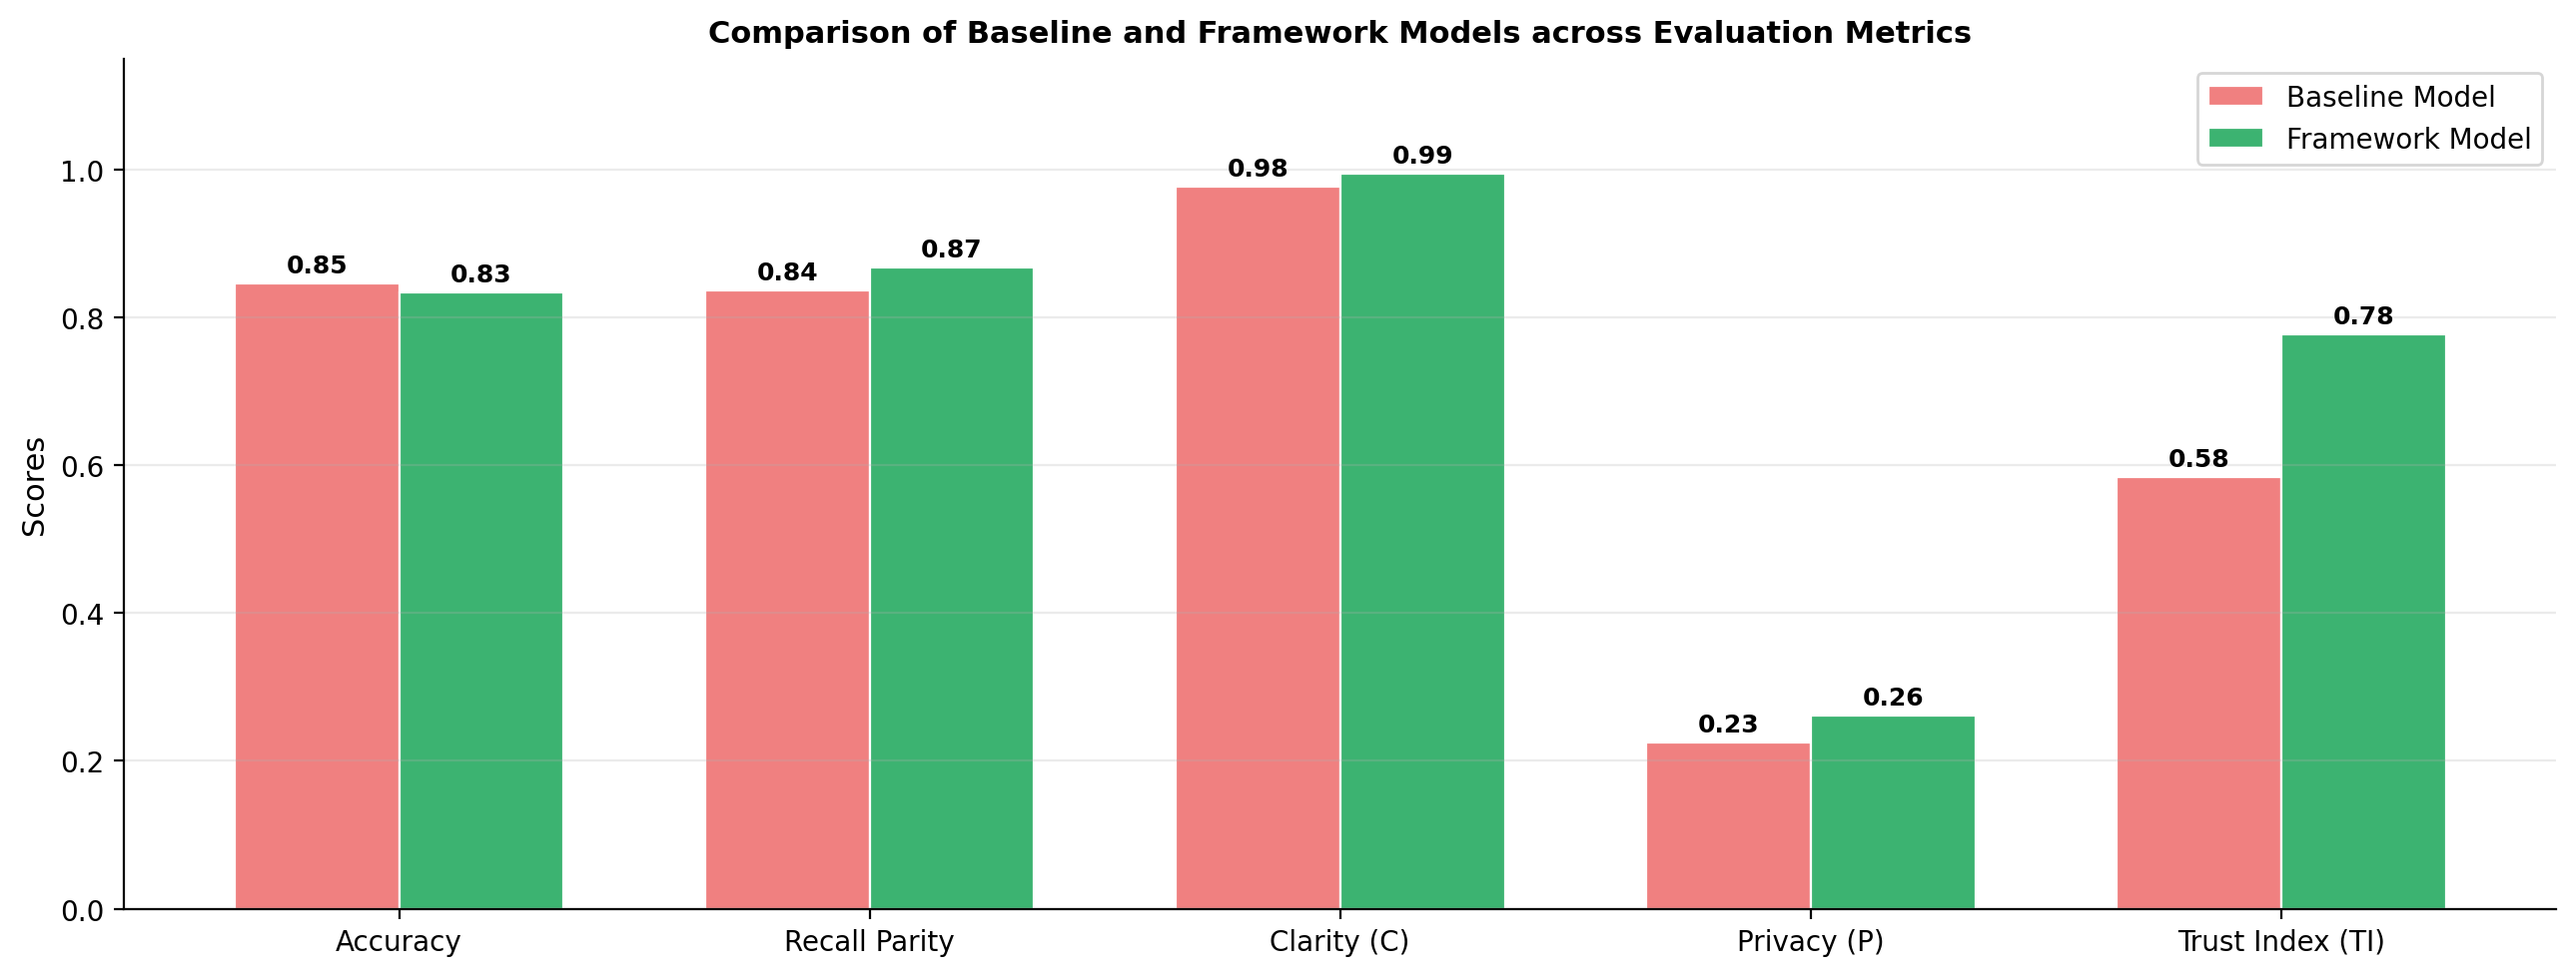
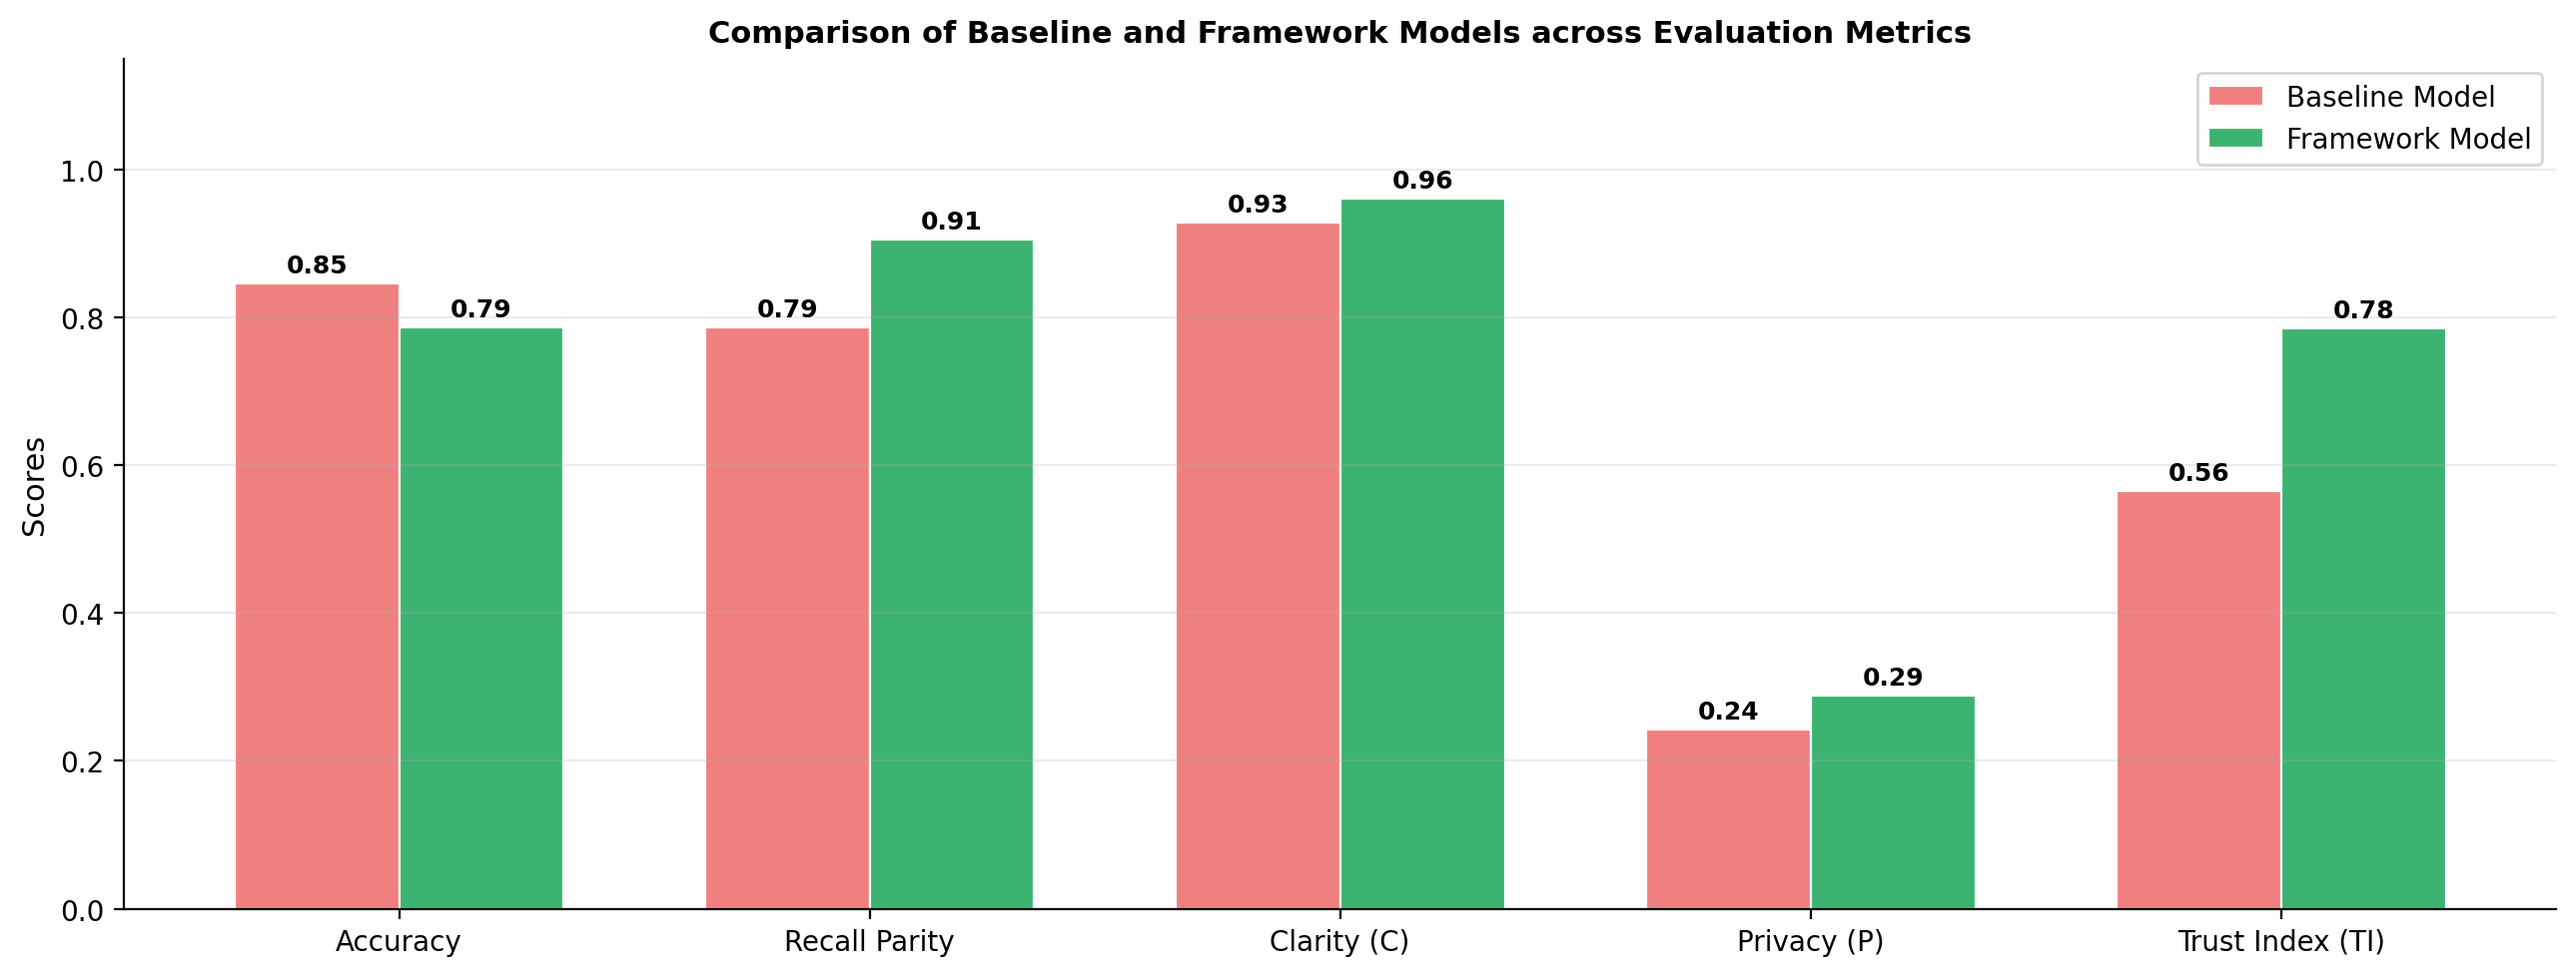
Fix leakage and stabilize fairness loss; regenerate pipeline outputs

diff --git a/src/utils/data_loader.py b/src/utils/data_loader.py
@@ -99,18 +99,20 @@ def generate_demo_biometric(n_samples=2000, n_features=20, n_classes=2, seed=42)
     flip_mask = rng.rand(len(y_all)) < flip_prob
     y_all[flip_mask] = 1 - y_all[flip_mask]
 
-    scaler = StandardScaler()
-    X_all = scaler.fit_transform(X_all).astype(np.float32)
-
     idx = np.arange(len(X_all))
     tr_idx, tmp_idx = train_test_split(idx, test_size=0.30, stratify=y_all, random_state=seed)
     va_idx, te_idx  = train_test_split(tmp_idx, test_size=0.50,
                                         stratify=y_all[tmp_idx], random_state=seed)
 
+    scaler = StandardScaler()
+    X_train = scaler.fit_transform(X_all[tr_idx]).astype(np.float32)
+    X_val = scaler.transform(X_all[va_idx]).astype(np.float32)
+    X_test = scaler.transform(X_all[te_idx]).astype(np.float32)
+
     return {
-        "X_train": X_all[tr_idx], "y_train": y_all[tr_idx], "groups_train": g_all[tr_idx],
-        "X_val":   X_all[va_idx], "y_val":   y_all[va_idx], "groups_val":   g_all[va_idx],
-        "X_test":  X_all[te_idx], "y_test":  y_all[te_idx], "groups_test":  g_all[te_idx],
+        "X_train": X_train, "y_train": y_all[tr_idx], "groups_train": g_all[tr_idx],
+        "X_val":   X_val, "y_val":   y_all[va_idx], "groups_val":   g_all[va_idx],
+        "X_test":  X_test, "y_test":  y_all[te_idx], "groups_test":  g_all[te_idx],
         "n_classes": 2, "n_features": n_features, "scaler": scaler,
         "source": "demo_synthetic",
         "splits": {"train": tr_idx.tolist(), "val": va_idx.tolist(), "test": te_idx.tolist()},
@@ -171,9 +173,6 @@ def load_adult_dataset(seed=42, test_size=0.15, val_size=0.15):
     X = X_df.astype(np.float32).values
     y = (y_raw.values == ">50K").astype(int)
 
-    scaler = StandardScaler()
-    X = scaler.fit_transform(X).astype(np.float32)
-
     idx = np.arange(len(X))
     tr_idx, tmp_idx = train_test_split(idx, test_size=(test_size + val_size), stratify=y, random_state=seed)
     val_ratio_in_tmp = val_size / (test_size + val_size)
@@ -184,14 +183,19 @@ def load_adult_dataset(seed=42, test_size=0.15, val_size=0.15):
         random_state=seed,
     )
 
+    scaler = StandardScaler()
+    X_train = scaler.fit_transform(X[tr_idx]).astype(np.float32)
+    X_val = scaler.transform(X[va_idx]).astype(np.float32)
+    X_test = scaler.transform(X[te_idx]).astype(np.float32)
+
     return {
-        "X_train": X[tr_idx],
+        "X_train": X_train,
         "y_train": y[tr_idx],
         "groups_train": groups[tr_idx],
-        "X_val": X[va_idx],
+        "X_val": X_val,
         "y_val": y[va_idx],
         "groups_val": groups[va_idx],
-        "X_test": X[te_idx],
+        "X_test": X_test,
         "y_test": y[te_idx],
         "groups_test": groups[te_idx],
         "n_classes": 2,

diff --git a/src/training/fairness_loss.py b/src/training/fairness_loss.py
@@ -24,6 +24,7 @@ def recall_parity_penalty_torch(y_true, y_pred_proba_pos, group_labels,
     Returns:
         Scalar torch tensor penalty (without lambda multiplier).
     """
+    _ = rp_target  # Kept for API compatibility with existing call sites.
     unique_groups = torch.unique(group_labels)
     recalls = []
     y_true_f = y_true.float()
@@ -44,11 +45,9 @@ def recall_parity_penalty_torch(y_true, y_pred_proba_pos, group_labels,
         return torch.zeros((), device=y_true.device)
 
     recalls_t = torch.stack(recalls)
-    rp_gen = recalls_t.min() / (recalls_t.max() + 1e-12)
-    # Use L1 (absolute) penalty instead of squared hinge so the gradient is
-    # always active regardless of whether the target is already met.
-    # This ensures lambda_rp has a measurable effect across the Pareto sweep.
-    return torch.abs(torch.tensor(rp_target, device=y_true.device) - rp_gen)
+    # Stable fairness penalty: directly minimize recall disparity across groups.
+    rp_gap = torch.abs(recalls_t.max() - recalls_t.min())
+    return rp_gap
 
 
 def clarity_penalty_from_outputs(y_pred_proba, target_confidence=0.80):

diff --git a/README.md b/README.md
@@ -165,3 +165,31 @@ If you use this repository, please cite the associated EAGF paper.
   year    = {2026}
 }
 ```
+
+
+<!-- PIPELINE_RESULTS_START -->
+
+# 📊 Latest Experimental Results
+
+*Auto-generated on 2026-03-29 17:20 UTC using seeds [42, 43, 44, 45, 46, 47, 48, 49, 50, 51].*
+
+## Results Table
+
+| Model | Accuracy | Recall Parity | Clarity (C) | Privacy (P) | Accountability (A) | Trust Index (TI) |
+|---|---|---|---|---|---|---|
+| baseline | 0.8463 | 0.7864 | 0.9285 | 0.2430 | 0.3000 | 0.5645 |
+| eagf | 0.7863 | 0.9051 | 0.9609 | 0.2886 | 0.9833 | 0.7845 |
+| joint_dp_fair | 0.7646 | 0.9084 | 0.9515 | 0.2880 | 0.3000 | 0.6120 |
+
+## Key Observations
+
+- EAGF improves Trust Index by **+0.2200** (38.97%) relative to baseline.
+- Accuracy change: **-0.0600** (acceptable trade-off for governance benefits).
+- Full governance (EAGF) outperforms all single-pillar ablations on TI.
+
+## Reports and Figures
+
+- 📄 [Detailed report](results/final_report.txt)
+- 📁 [Figures](figures/)
+
+<!-- PIPELINE_RESULTS_END -->
